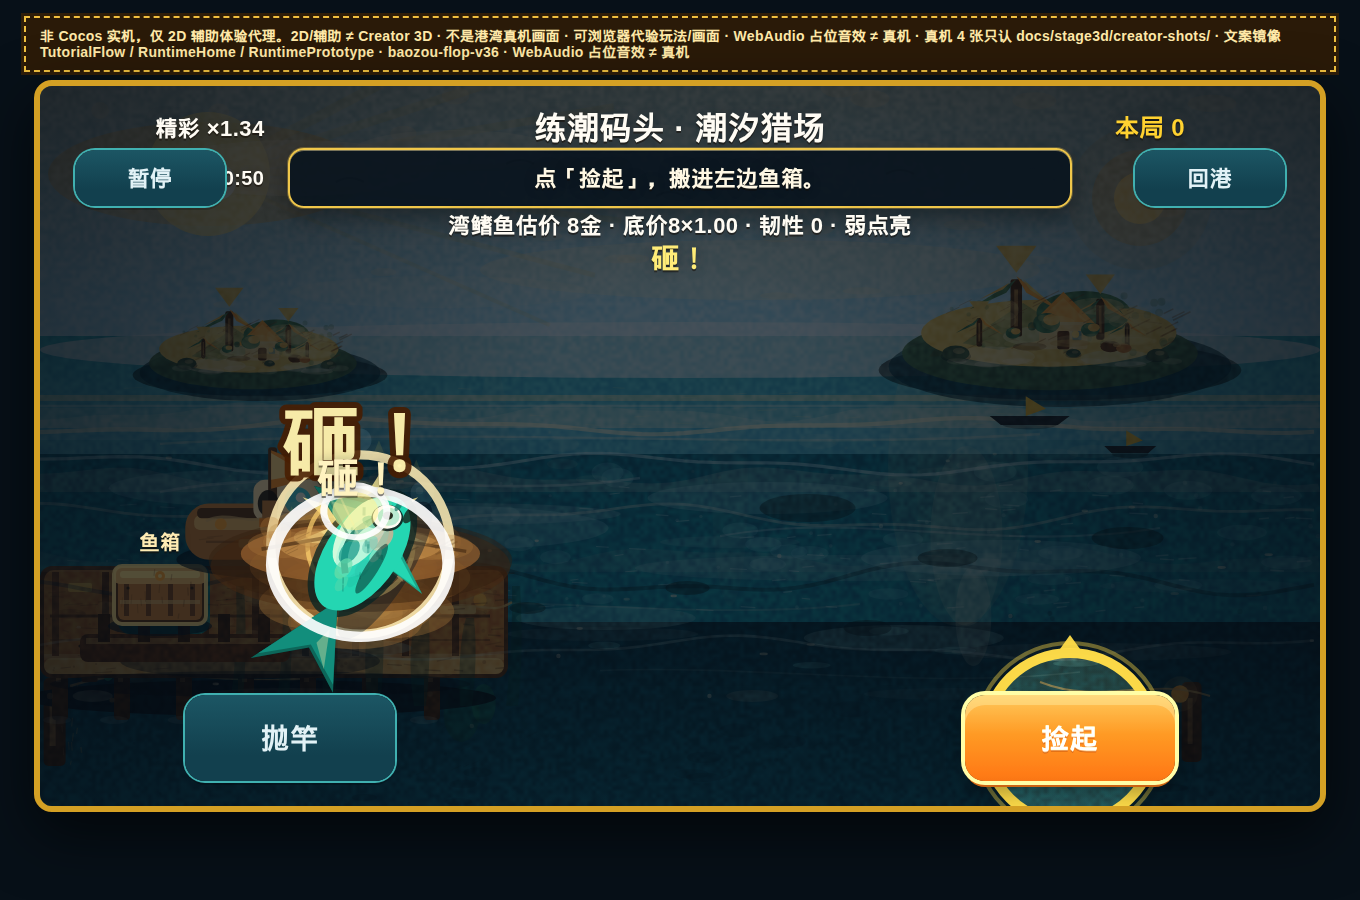
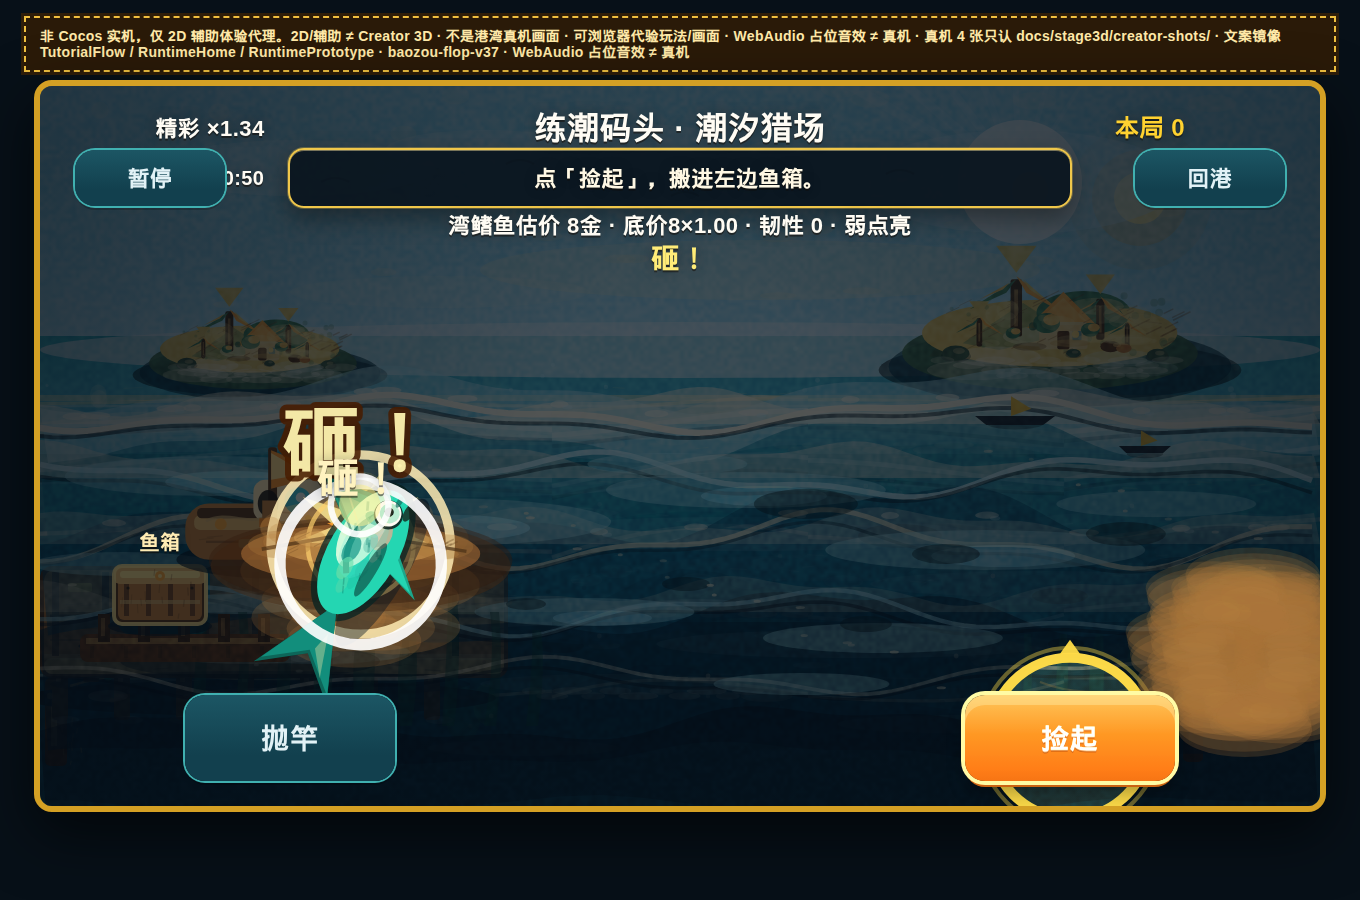
重截 v37 代理图，并加粗猎场浪脊与泡沫齿
配方与 skin 加大浪幅/色带对比；water.svg 跟配方对齐。逻辑经济不动。

diff --git a/tools/first-run-preview/skin.js b/tools/first-run-preview/skin.js
@@ -67,15 +67,24 @@ function fillWaveBand(ctx, yTop, yBot, amp, phase, color) {
 function foamCrest(ctx, y, phase, alpha) {
   ctx.fillStyle = `rgba(255,248,230,${alpha})`;
   ctx.beginPath();
-  ctx.moveTo(0, y + 12);
-  for (let x = 0; x <= 1280; x += 16) {
-    const yy = y + Math.sin(x * 0.018 + phase) * 8 + Math.sin(x * 0.041 + phase * 1.7) * 3.4;
+  ctx.moveTo(0, y + 16);
+  for (let x = 0; x <= 1280; x += 14) {
+    const yy = y + Math.sin(x * 0.016 + phase) * 11 + Math.sin(x * 0.038 + phase * 1.7) * 5;
     ctx.lineTo(x, yy);
   }
-  ctx.lineTo(1280, y + 18);
-  ctx.lineTo(0, y + 18);
+  ctx.lineTo(1280, y + 22);
+  ctx.lineTo(0, y + 22);
   ctx.closePath();
   ctx.fill();
+}
+
+function foamTeeth(ctx, y, phase, count, alpha) {
+  for (let i = 0; i < count; i += 1) {
+    const x = ((i * 97 + phase * 36) % 1240) + 20;
+    const yy = waveY(x, y, 10, phase);
+    ellipse(ctx, x, yy, 9 + (i % 3) * 3, 3.6, `rgba(255,252,236,${alpha})`);
+    if (i % 2 === 0) ellipse(ctx, x + 8, yy + 3, 5, 2.2, `rgba(210,246,255,${alpha * 0.7})`);
+  }
 }
 
 function ridgePair(ctx, y, amp, phase, hi, lo, wHi, wLo) {
@@ -87,27 +96,29 @@ function ridgePair(ctx, y, amp, phase, hi, lo, wHi, wLo) {
 export function paintWaterLife(ctx, phase, hunt) {
   const lift = hunt ? 18 : 0;
   if (hunt) {
-    fillWaveBand(ctx, 292 + lift, 336 + lift, 8, phase, "rgba(186, 236, 248, 0.38)");
-    fillWaveBand(ctx, 328 + lift, 412 + lift, 12, phase + 0.4, "rgba(28, 148, 176, 0.42)");
-    fillWaveBand(ctx, 400 + lift, 508 + lift, 16, phase + 0.9, "rgba(12, 92, 128, 0.46)");
-    fillWaveBand(ctx, 492 + lift, 640 + lift, 13, phase + 1.4, "rgba(6, 42, 68, 0.5)");
-    fillWaveBand(ctx, 600 + lift, 740, 10, phase + 1.8, "rgba(4, 24, 42, 0.42)");
+    fillWaveBand(ctx, 286 + lift, 348 + lift, 18, phase, "rgba(168, 228, 246, 0.52)");
+    fillWaveBand(ctx, 332 + lift, 428 + lift, 22, phase + 0.4, "rgba(18, 132, 164, 0.56)");
+    fillWaveBand(ctx, 408 + lift, 528 + lift, 26, phase + 0.9, "rgba(8, 78, 118, 0.58)");
+    fillWaveBand(ctx, 508 + lift, 650 + lift, 20, phase + 1.4, "rgba(4, 36, 62, 0.6)");
+    fillWaveBand(ctx, 620 + lift, 760, 16, phase + 1.8, "rgba(3, 18, 36, 0.5)");
   } else {
-    fillWaveBand(ctx, 308, 358, 7, phase, "rgba(24, 158, 178, 0.3)");
-    fillWaveBand(ctx, 348, 438, 10, phase + 0.5, "rgba(10, 116, 148, 0.34)");
-    fillWaveBand(ctx, 428, 538, 12, phase + 1.0, "rgba(8, 78, 112, 0.38)");
-    fillWaveBand(ctx, 520, 680, 9, phase + 1.5, "rgba(4, 32, 52, 0.36)");
+    fillWaveBand(ctx, 300, 368, 14, phase, "rgba(24, 158, 178, 0.4)");
+    fillWaveBand(ctx, 348, 448, 18, phase + 0.5, "rgba(10, 116, 148, 0.44)");
+    fillWaveBand(ctx, 428, 548, 20, phase + 1.0, "rgba(8, 78, 112, 0.48)");
+    fillWaveBand(ctx, 520, 690, 16, phase + 1.5, "rgba(4, 32, 52, 0.44)");
   }
-  foamCrest(ctx, 300 + lift, phase, hunt ? 0.36 : 0.16);
-  foamCrest(ctx, 348 + lift, phase * 1.1 + 0.7, hunt ? 0.28 : 0.12);
-  foamCrest(ctx, 412 + lift, phase * 0.85 + 1.3, hunt ? 0.2 : 0.09);
-  foamCrest(ctx, 478 + lift, phase * 0.7 + 2.1, hunt ? 0.14 : 0.06);
-  ridgePair(ctx, 314 + lift, 7, phase, "rgba(255,248,230,0.78)", "rgba(8,40,64,0.42)", hunt ? 5.2 : 3.6, 3.2);
-  ridgePair(ctx, 368 + lift, 10, phase * 1.12 + 0.5, "rgba(210,246,255,0.62)", "rgba(6,32,52,0.38)", hunt ? 4.4 : 3, 2.8);
-  ridgePair(ctx, 428 + lift, 13, phase * 0.82 + 1.1, "rgba(255,244,210,0.48)", "rgba(8,48,72,0.34)", hunt ? 3.8 : 2.6, 2.6);
-  ridgePair(ctx, 498 + lift, 12, phase * 1.25 + 0.3, "rgba(170,236,255,0.4)", "rgba(4,24,40,0.4)", hunt ? 3.4 : 2.4, 3);
+  foamCrest(ctx, 298 + lift, phase, hunt ? 0.48 : 0.22);
+  foamCrest(ctx, 352 + lift, phase * 1.1 + 0.7, hunt ? 0.38 : 0.16);
+  foamCrest(ctx, 418 + lift, phase * 0.85 + 1.3, hunt ? 0.28 : 0.12);
+  foamCrest(ctx, 486 + lift, phase * 0.7 + 2.1, hunt ? 0.2 : 0.08);
+  if (hunt) foamTeeth(ctx, 300 + lift, phase, 18, 0.55);
+  if (hunt) foamTeeth(ctx, 418 + lift, phase + 1.1, 14, 0.4);
+  ridgePair(ctx, 310 + lift, 14, phase, "rgba(255,248,230,0.92)", "rgba(6,28,48,0.55)", hunt ? 6.4 : 4, 4);
+  ridgePair(ctx, 372 + lift, 18, phase * 1.12 + 0.5, "rgba(210,246,255,0.78)", "rgba(4,24,42,0.5)", hunt ? 5.6 : 3.4, 3.6);
+  ridgePair(ctx, 436 + lift, 22, phase * 0.82 + 1.1, "rgba(255,244,210,0.62)", "rgba(6,36,58,0.46)", hunt ? 5 : 3, 3.2);
+  ridgePair(ctx, 508 + lift, 18, phase * 1.25 + 0.3, "rgba(170,236,255,0.52)", "rgba(3,18,34,0.5)", hunt ? 4.4 : 2.8, 3.4);
   if (hunt) {
-    ridgePair(ctx, 560 + lift, 9, phase * 0.7 + 1.8, "rgba(255,248,230,0.28)", "rgba(4,20,36,0.36)", 3, 2.8);
+    ridgePair(ctx, 572 + lift, 14, phase * 0.7 + 1.8, "rgba(255,248,230,0.38)", "rgba(3,16,30,0.46)", 3.8, 3.2);
   }
   const drift = Math.sin(phase) * 22;
   const caustics = hunt
@@ -133,7 +144,7 @@ export function paintWaterLife(ctx, phase, hunt) {
         [1040 - drift * 0.2, 500, 96, 12],
       ];
   for (const [x, y, rx, ry] of caustics) {
-    ellipse(ctx, x, y + lift, rx, ry, hunt ? "rgba(170,240,255,0.34)" : "rgba(170,240,255,0.22)");
+    ellipse(ctx, x, y + lift, rx, ry, hunt ? "rgba(170,240,255,0.42)" : "rgba(170,240,255,0.26)");
   }
   if (hunt) {
     ctx.save();

diff --git a/assets/scripts/domain/ArtRecipe.ts b/assets/scripts/domain/ArtRecipe.ts
@@ -540,18 +540,18 @@ function waveRidgeOps(
 export function huntWaterOps(look: IslandLook, phase = 0): DrawOp[] {
   const drift = Math.sin(phase) * 16;
   const ops: DrawOp[] = [
-    waveBandPoly(34, 8, 8, phase, rgba([255, 244, 214], 78), "foam"),
-    waveBandPoly(10, -74, 11, phase + 0.28, rgba(mix(look.far, [210, 246, 255], 0.22), 96), "depth"),
-    waveBandPoly(-66, -166, 15, phase + 0.82, rgba(mix(look.mid, look.near, 0.38), 100), "depth"),
-    waveBandPoly(-156, -254, 17, phase + 1.18, rgba(mix(look.near, look.deep, 0.32), 108), "depth"),
-    waveBandPoly(-244, -360, 13, phase + 1.72, rgba(look.deep, 128), "depth"),
-    ...waveRidgeOps(24, 8, phase, rgba([255, 248, 230], 170), 4.6),
-    ...waveRidgeOps(16, 7, phase + 0.18, rgba([10, 48, 72], 100), 3.4),
-    ...waveRidgeOps(-22, 10, phase + 0.52, rgba([210, 246, 255], 130), 3.8),
-    ...waveRidgeOps(-32, 9, phase + 0.68, rgba([8, 36, 58], 88), 3),
-    ...waveRidgeOps(-94, 13, phase + 1.02, rgba([255, 248, 230], 112), 3.6),
-    ...waveRidgeOps(-170, 15, phase + 1.42, rgba([170, 236, 255], 96), 3.2),
-    ...waveRidgeOps(-246, 12, phase + 1.84, rgba([255, 244, 210], 78), 2.8),
+    waveBandPoly(36, 6, 14, phase, rgba([255, 244, 214], 92), "foam"),
+    waveBandPoly(12, -76, 18, phase + 0.28, rgba(mix(look.far, [210, 246, 255], 0.28), 112), "depth"),
+    waveBandPoly(-64, -168, 22, phase + 0.82, rgba(mix(look.mid, look.near, 0.38), 118), "depth"),
+    waveBandPoly(-154, -256, 24, phase + 1.18, rgba(mix(look.near, look.deep, 0.32), 124), "depth"),
+    waveBandPoly(-242, -360, 18, phase + 1.72, rgba(look.deep, 148), "depth"),
+    ...waveRidgeOps(26, 12, phase, rgba([255, 248, 230], 190), 5.4),
+    ...waveRidgeOps(14, 10, phase + 0.18, rgba([10, 48, 72], 120), 4),
+    ...waveRidgeOps(-20, 16, phase + 0.52, rgba([210, 246, 255], 150), 4.6),
+    ...waveRidgeOps(-34, 14, phase + 0.68, rgba([8, 36, 58], 104), 3.6),
+    ...waveRidgeOps(-92, 18, phase + 1.02, rgba([255, 248, 230], 128), 4.2),
+    ...waveRidgeOps(-168, 20, phase + 1.42, rgba([170, 236, 255], 110), 3.8),
+    ...waveRidgeOps(-244, 16, phase + 1.84, rgba([255, 244, 210], 90), 3.2),
     ...foamLace(-90, 12, 300, look),
     ...foamLace(210, -2, 240, look),
     ...foamLace(-340, -86, 280, look),
